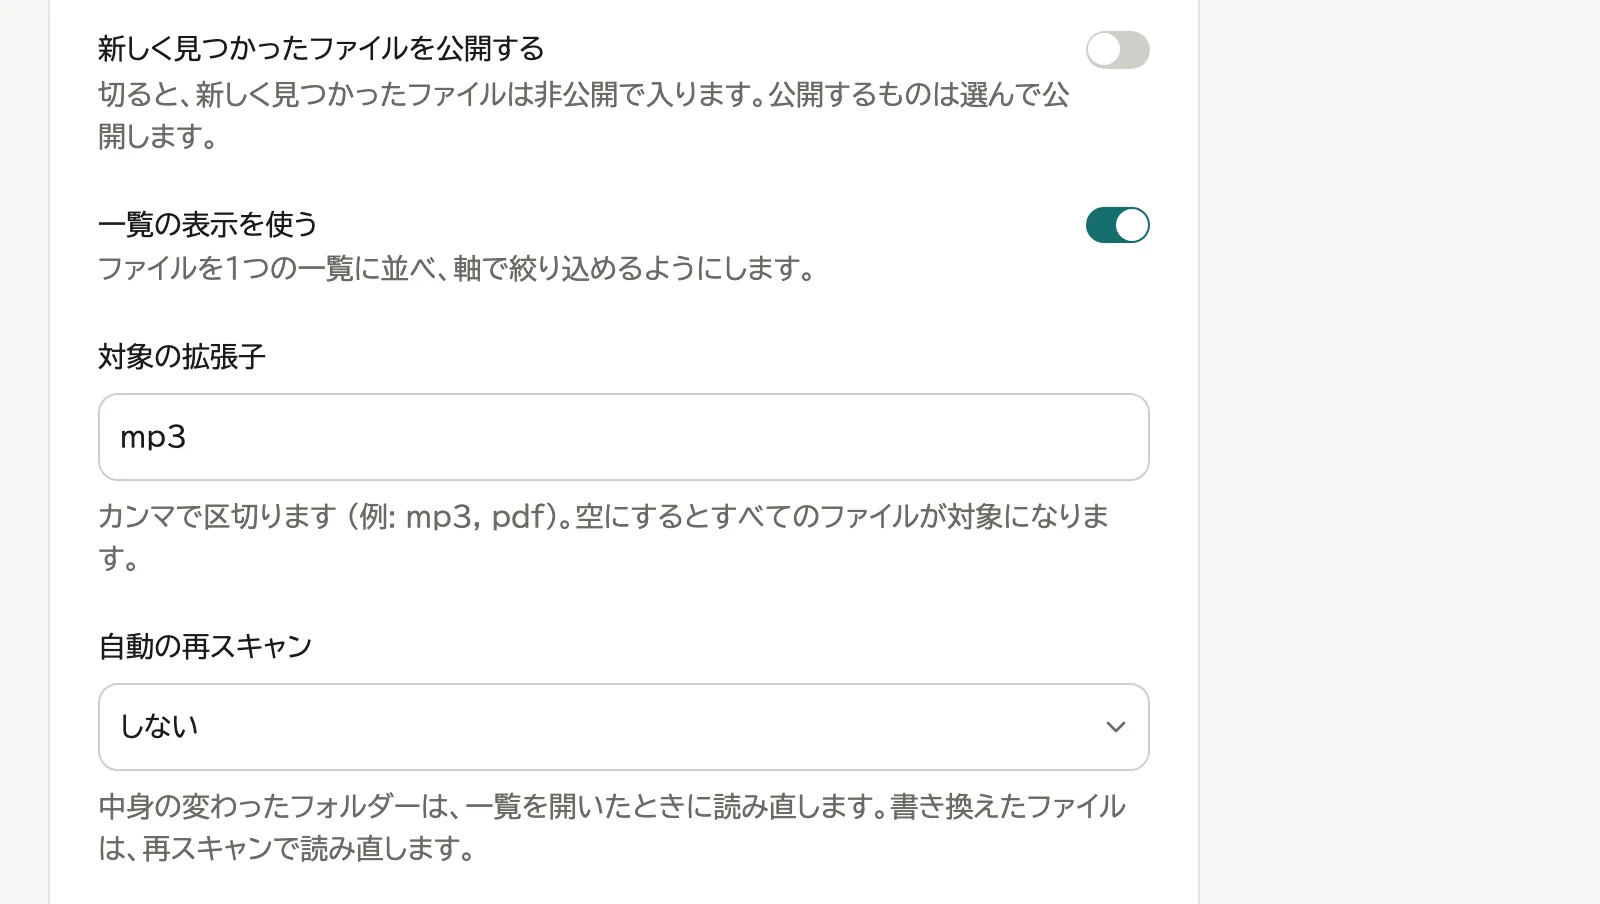
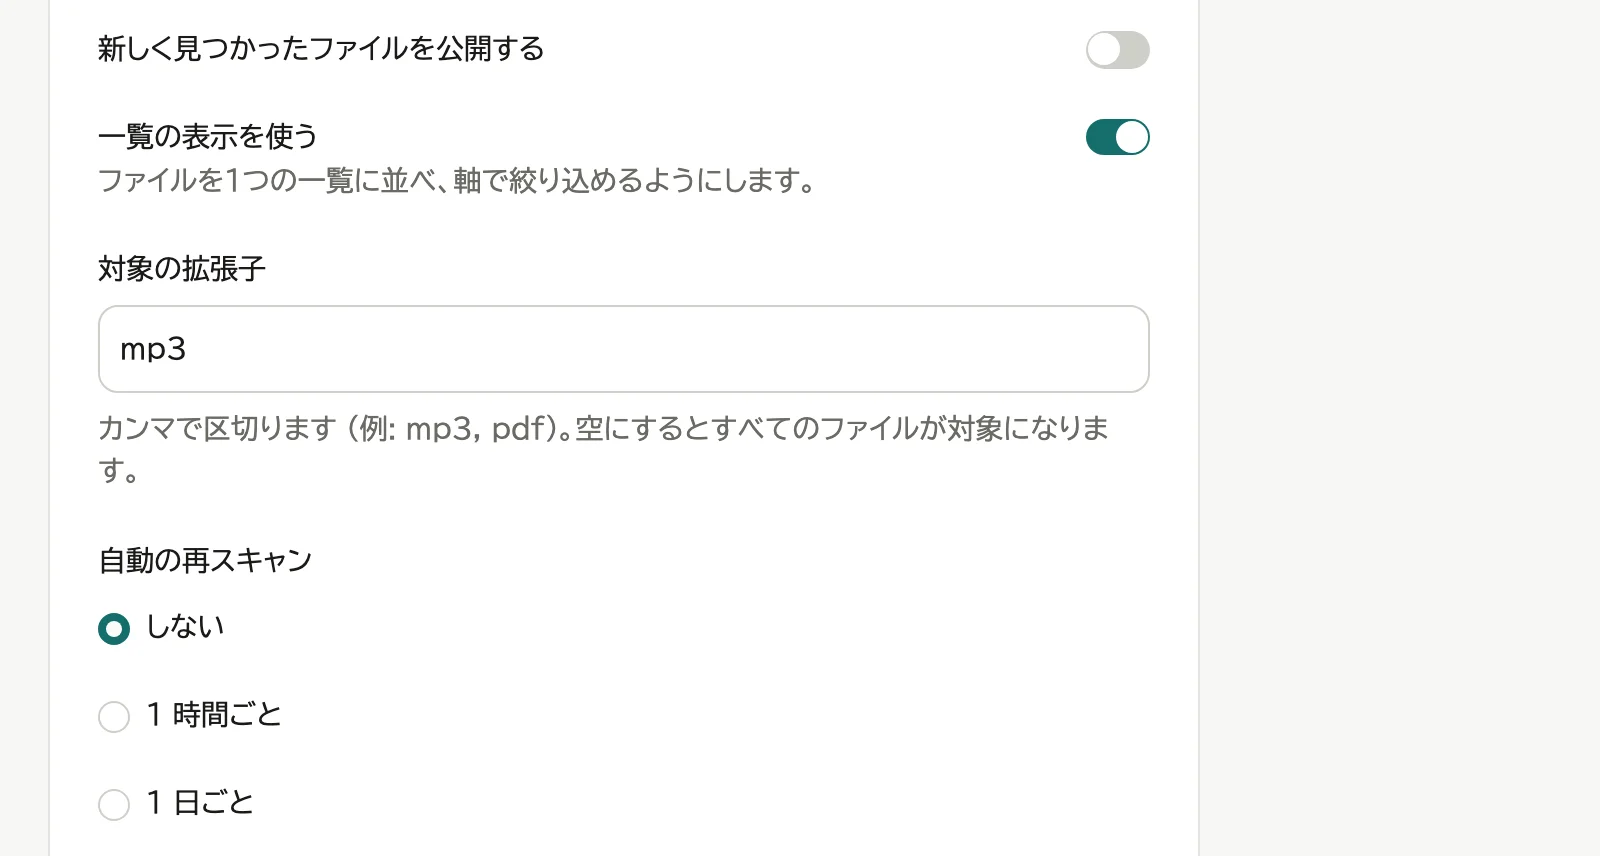
フォルダーの編集ページの説明文を決まりに合わせて減らし、自動の再スキャンを丸ボタンにする
- 「新しく見つかったファイルを公開する」の説明はオフのときの裏返しで、「自動の再スキャン」の説明は仕組みの説明なので外した (docs/ui.md「説明文」)
- 自動の再スキャンを、グループの「自動の更新」と同じ丸ボタンにした
- 公開・非公開の印を取り消したときのトーストをやめた。押した行が消えるため
- 作るときの種類の説明から「軸」の語を外し、1つの句にした

diff --git a/frontend/src/lib/components/content-form.svelte b/frontend/src/lib/components/content-form.svelte
@@ -17,6 +17,7 @@
 	import { Input } from '$lib/components/ui/input';
 	import FileDropzone from '$lib/components/file-dropzone.svelte';
 	import LoadingButton from '$lib/components/loading-button.svelte';
+	import * as RadioGroup from '$lib/components/ui/radio-group';
 	import * as Select from '$lib/components/ui/select';
 	import { Switch } from '$lib/components/ui/switch';
 	import { Textarea } from '$lib/components/ui/textarea';
@@ -262,9 +263,6 @@
 				<Field.FieldLabel for="content-new-files-public"
 					>{m.contents_form_new_files_public_label()}</Field.FieldLabel
 				>
-				<Field.FieldDescription
-					>{m.contents_form_new_files_public_description()}</Field.FieldDescription
-				>
 			</Field.FieldContent>
 			<Switch id="content-new-files-public" bind:checked={form.newFilesPublic} {disabled} />
 		</Field.Field>
@@ -285,22 +283,26 @@
 				<Input id="content-extensions" bind:value={form.extensions} />
 				<Field.FieldDescription>{m.contents_form_extensions_help()}</Field.FieldDescription>
 			</Field.Field>
-			<Field.Field data-disabled={disabled}>
-				<Field.FieldLabel for="content-auto-rescan"
-					>{m.contents_form_auto_rescan_label()}</Field.FieldLabel
+			<!-- グループの「自動の更新」と同じく丸ボタンにする。3つの状態が一目で見えるため (→ docs/ui.md「グループの編集ページ」)。 -->
+			<Field.FieldSet data-disabled={disabled}>
+				<Field.FieldLegend variant="label" id="content-auto-rescan-legend"
+					>{m.contents_form_auto_rescan_label()}</Field.FieldLegend
 				>
-				<Select.Root type="single" bind:value={form.autoRescan} {disabled}>
-					<Select.Trigger id="content-auto-rescan" class="w-full">
-						{autoRescanLabel(form.autoRescan)}
-					</Select.Trigger>
-					<Select.Content>
-						{#each AUTO_RESCAN_OPTIONS as option (option)}
-							<Select.Item value={option}>{autoRescanLabel(option)}</Select.Item>
-						{/each}
-					</Select.Content>
-				</Select.Root>
-				<Field.FieldDescription>{m.contents_form_auto_rescan_help()}</Field.FieldDescription>
-			</Field.Field>
+				<RadioGroup.Root
+					bind:value={form.autoRescan}
+					{disabled}
+					aria-labelledby="content-auto-rescan-legend"
+				>
+					{#each AUTO_RESCAN_OPTIONS as option (option)}
+						<Field.Field orientation="horizontal" data-disabled={disabled} class="min-h-9">
+							<RadioGroup.Item value={option} id="content-auto-rescan-{option}" />
+							<Field.FieldLabel for="content-auto-rescan-{option}" class="font-normal"
+								>{autoRescanLabel(option)}</Field.FieldLabel
+							>
+						</Field.Field>
+					{/each}
+				</RadioGroup.Root>
+			</Field.FieldSet>
 		{/if}
 	{/if}
 </Field.FieldGroup>

diff --git a/frontend/src/lib/components/folder-marks-section.svelte b/frontend/src/lib/components/folder-marks-section.svelte
@@ -1,5 +1,4 @@
 <script lang="ts">
-	import { toast } from 'svelte-sonner';
 	import { invalidateAll } from '$app/navigation';
 	import FileIcon from '@lucide/svelte/icons/file';
 	import FolderIcon from '@lucide/svelte/icons/folder';
@@ -31,10 +30,8 @@
 					client.DELETE('/api/v1/contents/{id}/marks/{mark_id}', {
 						params: { path: { id: contentId, mark_id: mark.id } }
 					}),
-				async () => {
-					toast.success(m.contents_marks_cleared_toast());
-					await invalidateAll();
-				}
+				// 押した行が消えるので、トーストは出さない (→ docs/ui.md「押した所で結果が見えない操作は、トーストで知らせる」)。
+				() => invalidateAll()
 			);
 		} finally {
 			clearing = null;

diff --git a/frontend/scripts/manual-shots.ts b/frontend/scripts/manual-shots.ts
@@ -479,7 +479,7 @@ async function shootAdmin() {
 				page,
 				'folder-list-view',
 				page.getByText('新しく見つかったファイルを公開する'),
-				page.getByText('中身の変わったフォルダーは', { exact: false }),
+				page.getByText('1\u00a0日ごと'),
 				{ padTop: 16, padBottom: 16 }
 			);
 		}
